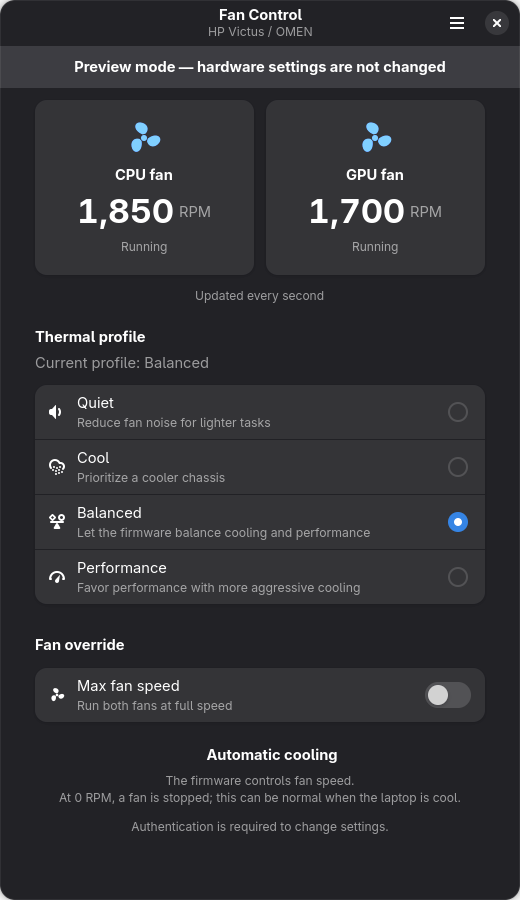
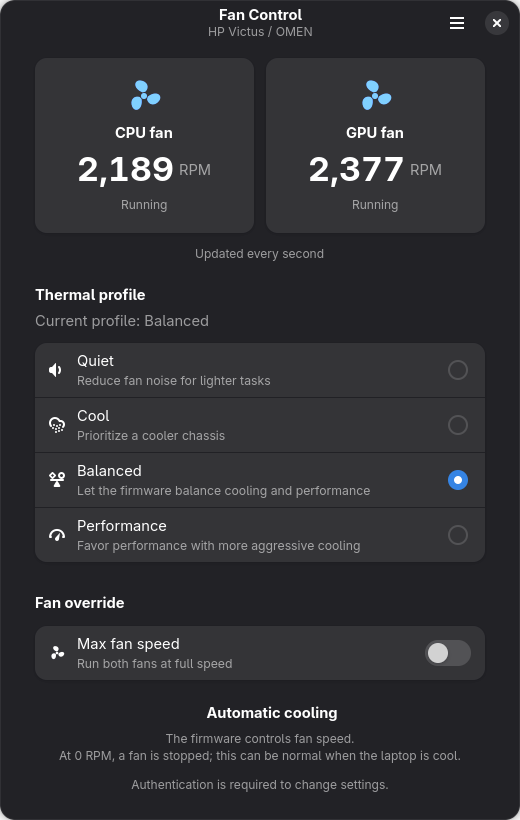
Capture live screenshots without preview and verify cached fan artwork

diff --git a/packaging/site/index.html b/packaging/site/index.html
@@ -17,8 +17,8 @@ body{max-width:880px;margin:64px auto;padding:0 24px;line-height:1.6}header{max-
 </header>
 <p>Choose a firmware thermal profile, switch both fans to maximum speed, and check live fan RPM. The app follows your desktop’s light or dark appearance.</p>
 <div class="gallery">
-<img src="https://raw.githubusercontent.com/sh7vansh/victus-fan-control/f0955f73e6ed33abc327394ce235b3228acb5c00/data/screenshots/fan-control-light.png" width="520" height="900" alt="Fan Control preview in light appearance">
-<img src="https://raw.githubusercontent.com/sh7vansh/victus-fan-control/f0955f73e6ed33abc327394ce235b3228acb5c00/data/screenshots/fan-control-dark.png" width="520" height="900" alt="Fan Control preview in dark appearance">
+<img src="https://raw.githubusercontent.com/sh7vansh/victus-fan-control/f0955f73e6ed33abc327394ce235b3228acb5c00/data/screenshots/fan-control-light.png" width="520" height="820" alt="Fan Control in light appearance">
+<img src="https://raw.githubusercontent.com/sh7vansh/victus-fan-control/f0955f73e6ed33abc327394ce235b3228acb5c00/data/screenshots/fan-control-dark.png" width="520" height="820" alt="Fan Control in dark appearance">
 </div>
 <h2>Installation</h2>
 <p>Open the downloaded <code>.flatpakref</code> in your software center. It adds the signed Fan Control repository for future updates. You can also run:</p>
@@ -26,7 +26,7 @@ body{max-width:880px;margin:64px auto;padding:0 24px;line-height:1.6}header{max-
 <p>A separate RPM or service is not needed. Supported HP firmware, Python 3.10+, polkit, coreutils, and a graphical authentication agent are required on the host.</p>
 <h2>Host access and cooling</h2>
 <p>The app has permission to run host commands as your user. Your software center accurately labels this as potentially unsafe. Fan changes require administrator authentication through polkit. Your password is handled by the system.</p>
-<p>Maximum fan speed remains active after closing the app. Turn it off to restore automatic cooling. Available profiles and fan controls depend on the laptop’s firmware and Linux driver. Preview mode and the screenshots use simulated readings.</p>
+<p>Maximum fan speed remains active after closing the app. Turn it off to restore automatic cooling. Available profiles and fan controls depend on the laptop’s firmware and Linux driver. Screenshots show live readings from an HP Victus. Fan speeds vary with workload and temperature.</p>
 <footer>
 MIT license · By Shivansh Singh · <a href="https://github.com/sh7vansh/victus-fan-control/issues">Report a problem</a> · <a href="https://github.com/sh7vansh/victus-fan-control/releases">Releases</a> · <a href="fan-control.flatpakrepo">Repository</a> · <a href="signing-key.gpg">Signing public key</a>
 </footer>

diff --git a/packaging/capture_screenshot.py b/packaging/capture_screenshot.py
@@ -1,5 +1,5 @@
 #!/usr/bin/python3
-"""Capture the actual preview window in a fixed light or dark appearance."""
+"""Capture a live app window using read-only hardware access."""
 
 import argparse
 from pathlib import Path
@@ -7,18 +7,46 @@ import sys
 
 sys.path.insert(0, str(Path(__file__).resolve().parent.parent))
 from fan_control.app import FanApplication
-from gi.repository import Adw
+from gi.repository import Adw, Gio, GLib, Gtk
 
-parser = argparse.ArgumentParser()
+parser = argparse.ArgumentParser(description=__doc__)
 parser.add_argument("theme", choices=("light", "dark"))
 args = parser.parse_args()
 target = Path(__file__).resolve().parent.parent / "data/screenshots" / f"fan-control-{args.theme}.png"
 target.parent.mkdir(parents=True, exist_ok=True)
-app = FanApplication(demo=True, smoke_test=True, screenshot=target)
+# No smoke test: that exercises controls. This instance only reads real sensors.
+app = FanApplication(screenshot=target)
+app.set_flags(Gio.ApplicationFlags.NON_UNIQUE)
 app.connect("startup", lambda *_: Adw.StyleManager.get_default().set_color_scheme(
     Adw.ColorScheme.FORCE_LIGHT if args.theme == "light" else Adw.ColorScheme.FORCE_DARK))
-app.connect_after("activate", lambda application: application.get_active_window().set_default_size(520, 900))
+
+
+def capture():
+    try:
+        window = app.get_active_window()
+        assert not window.busy, "A setting change is pending"
+        snapshot = Gtk.Snapshot.new()
+        app.capture_paintable.snapshot(snapshot, window.get_width(), window.get_height())
+        node = snapshot.to_node()
+        if node is None:
+            raise RuntimeError("The window has not rendered")
+        texture = window.get_renderer().render_texture(node, None)
+        if not texture.save_to_png(str(target)):
+            raise RuntimeError("Screenshot could not be saved")
+        print(f"Saved {target} ({window.get_width()} × {window.get_height()}); live readings, no settings changed")
+        window.close()
+    except Exception as error:
+        print(f"Capture failed: {error}", file=sys.stderr)
+        app.failure = True
+        app.quit()
+    return GLib.SOURCE_REMOVE
+
+
+def activated(application):
+    application.get_active_window().set_default_size(520, 820)
+    GLib.timeout_add(1400, capture)
+
+
+app.connect_after("activate", activated)
 result = app.run([sys.argv[0]])
-if not app.failure and result == 0:
-    print(f"Saved {target}")
 raise SystemExit(1 if app.failure else result)

diff --git a/packaging/check_software_page.py b/packaging/check_software_page.py
@@ -2,6 +2,7 @@
 """Verify the installer listing through GNOME Software without installing it."""
 
 import argparse
+from hashlib import sha256
 import os
 from pathlib import Path
 import re
@@ -31,14 +32,22 @@ for name in ("name", "version", "license", "origin", "size-download"):
     print(f"{name}: {field(name) or '(missing)'}")
 if field("license") != "MIT":
     raise SystemExit("FAIL: GNOME Software does not recognize the MIT license. Use the repository-backed .flatpakref.")
+# Check the actual cached image data, not merely the presence of an icon field.
+source_icons = Path(__file__).resolve().parent.parent / "data/icons/hicolor"
+expected_icons = {sha256(path.read_bytes()).digest() for path in source_icons.glob("*/apps/*.png")}
+icon_paths = [Path(value.strip()) for value in re.findall(r"^icon:\s*(/.+)$", app, re.MULTILINE)]
+if not any(path.is_file() and sha256(path.read_bytes()).digest() in expected_icons for path in icon_paths):
+    raise SystemExit("FAIL: GNOME Software does not resolve a cached custom fan icon.")
+print("PASS: GNOME Software's cached icon matches the custom fan artwork.")
 if args.installer.suffix == ".flatpakref":
     required = ("description", "icon", "screenshot-00", "screenshot-01", "url{homepage}", "origin")
     for name in required:
         if not field(name):
             raise SystemExit(f"FAIL: GNOME Software is missing {name}.")
-    if "local-has-repository" not in field("quirk"):
+    installed = field("state") == "installed"
+    if not installed and "local-has-repository" not in field("quirk"):
         raise SystemExit("FAIL: GNOME Software does not recognize the update repository.")
-    if not field("size-download") or field("size-download") == "unknown":
+    if not installed and (not field("size-download") or field("size-download") == "unknown"):
         raise SystemExit("FAIL: GNOME Software has no remote download size.")
     print("PASS: icon, description, both screenshots, homepage, MIT license, download size, and update repository recognized.")
 else:

diff --git a/fan_control/__init__.py b/fan_control/__init__.py
@@ -1,3 +1,3 @@
 """Native HP laptop cooling controls."""
 
-__version__ = "1.0.2"
+__version__ = "1.0.3"

diff --git a/README.md b/README.md
@@ -18,7 +18,7 @@ flatpak run io.github.sh7vansh.VictusFanControl
 
 The app uses `flatpak-spawn --host` and the host's `pkexec`; no separate RPM or service is required. **This permits commands outside the sandbox as your user**, which GNOME Software labels “Potentially Unsafe.” Fan changes still require administrator authentication. See [packaging details](packaging/README.md).
 
-Requires supported HP firmware, Python 3.10+, polkit, coreutils, and a graphical authentication agent on the host. The GNOME 51 runtime is supplied by Flathub. Screenshots show simulated preview data.
+Requires supported HP firmware, Python 3.10+, polkit, coreutils, and a graphical authentication agent on the host. The GNOME 51 runtime is supplied by Flathub. Screenshots show live readings from an HP Victus; fan speeds and available controls vary by laptop.
 
 [Project page](https://sh7vansh.github.io/victus-fan-control/) · [Releases](https://github.com/sh7vansh/victus-fan-control/releases) · [Report a problem](https://github.com/sh7vansh/victus-fan-control/issues)
 

diff --git a/data/screenshots/README.md b/data/screenshots/README.md
@@ -1,13 +1,13 @@
 # Application screenshots
 
-These are captures of the real GTK/libadwaita window, using clearly labeled preview data:
+These are captures of the live GTK/libadwaita window on an HP Victus:
 
 * `fan-control-light.png`: light appearance, Balanced profile, and automatic cooling.
 * `fan-control-dark.png`: dark appearance of the same controls.
 
-Both images are 520 × 900 pixels. No screenshot is presented as a measurement from a particular laptop.
+Both images are 520 × 820 pixels. Fan RPM readings are real examples at capture time and vary with workload and temperature.
 
-Regenerate from the project root on a GNOME desktop:
+Regenerate from the project root on a GNOME desktop with supported hardware. The capture tool only reads sensors and never activates controls or changes settings:
 
 ```sh
 /usr/bin/python3 packaging/capture_screenshot.py light
